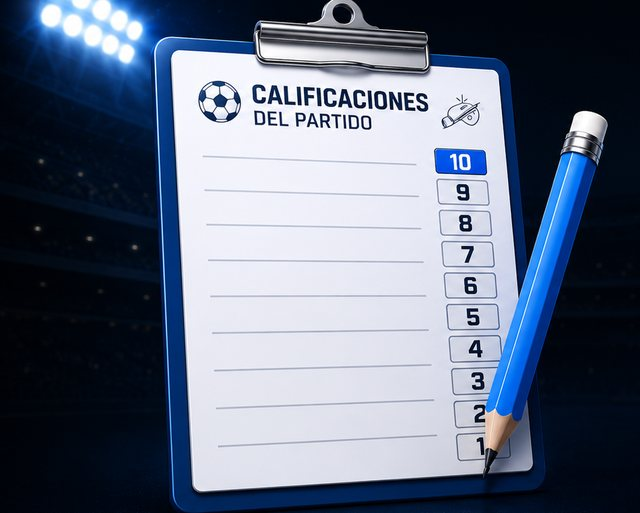
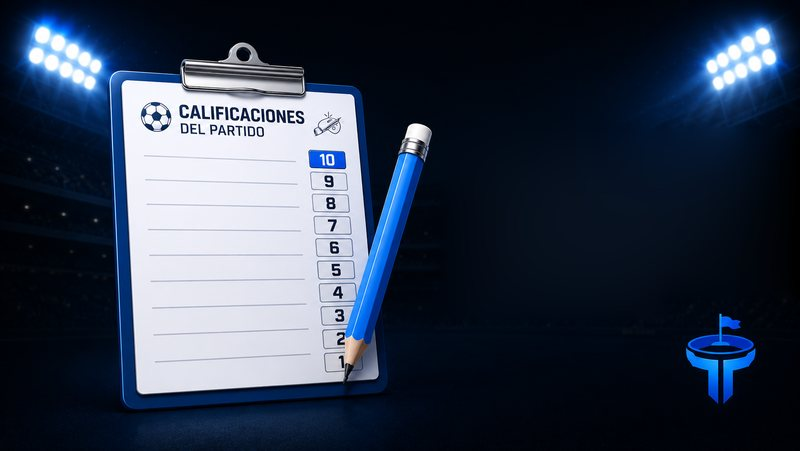
fotos: borrar el texto lateral de las 4 imagenes de seccion
Antes las habia recortado para esconder el texto; ahora se edito la imagen: se
borro el texto reconstruyendo el fondo del estadio por difusion (inpainting de
Laplace con numpy). El limite izquierdo de la zona a limpiar se detecta solo
buscando el valle oscuro entre el grafico y el texto, asi no se toca el grafico.
Se conservan los reflectores de arriba y el logo de TribunApp de abajo.

Las fotos vuelven a ser 16:9 completas (800px, 152 KB las 4) y el tile recupera
ese ratio. En pantallas angostas el tile usa 1.35 para que entre bien el texto.
Las fuentes limpias en alta resolucion quedan en fotos/limpias/ (0.7 MB).

diff --git a/club.html b/club.html
@@ -103,7 +103,7 @@ html, body { min-height: 100%; font-family: 'DM Sans', sans-serif; background: v
 }
 .club-tile {
   position: relative; cursor: pointer; overflow: hidden;
-  border-radius: 14px; padding: 14px; aspect-ratio: 1.25;   /* = ratio de las fotos, entran completas */
+  border-radius: 14px; padding: 14px; aspect-ratio: 1.78;   /* = ratio de las fotos, entran completas */
   display: flex; flex-direction: column; justify-content: flex-end;
   background-color: rgba(255,255,255,0.04); border: 1px solid rgba(255,255,255,0.09);
   transition: transform 0.12s ease, border-color 0.2s;
@@ -137,10 +137,6 @@ html, body { min-height: 100%; font-family: 'DM Sans', sans-serif; background: v
   transition: max-height 0.3s ease, opacity 0.3s ease, margin-top 0.3s ease;
 }
 .club-tile:hover .club-tile-desc { max-height: 52px; opacity: 1; margin-top: 5px; }   /* 52px = hasta 3 líneas, no corta */
-/* En pantallas táctiles no hay hover: la descripción se muestra siempre. */
-@media (hover: none) {
-  .club-tile-desc { max-height: 52px; opacity: 1; margin-top: 5px; }
-}
 /* Foto de cada sección (fotos/secciones/, recortadas al gráfico y optimizadas) */
 .tile-formacion    .club-tile-photo { background-image: url('fotos/secciones/formacion.jpg'); }
 .tile-puntajes     .club-tile-photo { background-image: url('fotos/secciones/puntajes.jpg'); }
@@ -155,6 +151,9 @@ html, body { min-height: 100%; font-family: 'DM Sans', sans-serif; background: v
   color: rgba(255,255,255,0.5); margin-top: 4px; min-height: 15px;
 }
 .club-tile-sub b { color: var(--club-color); font-weight: 600; }
+/* En pantallas angostas el tile apaisado deja poco alto para el texto: se le da
+   algo más de altura (la foto recorta un poco a los lados, que es lo de menos). */
+@media (max-width: 480px) { .club-tile { aspect-ratio: 1.35; } }
 @media (max-width: 360px) { .club-tile-title { font-size: 17px; } }
 /* ===== SECONDARY ROW ===== */
 .secondary-row {
